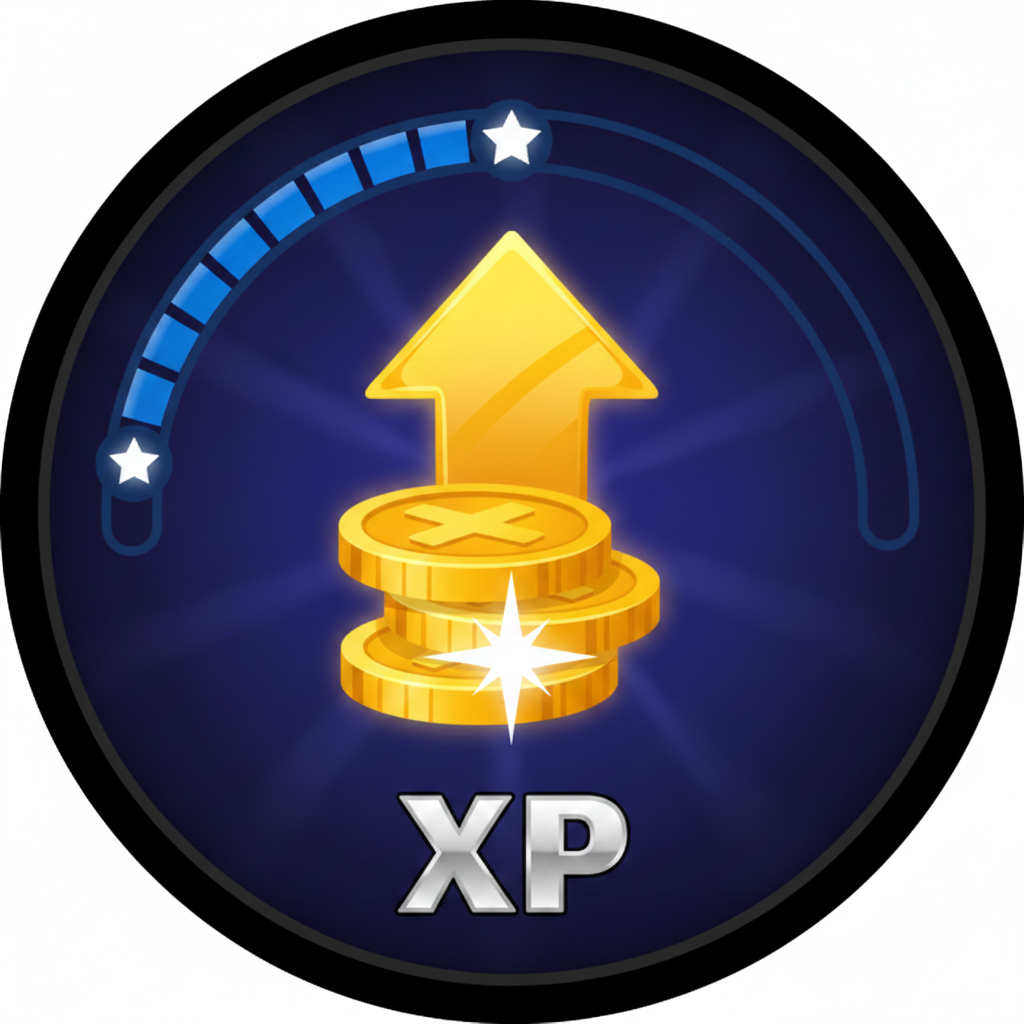
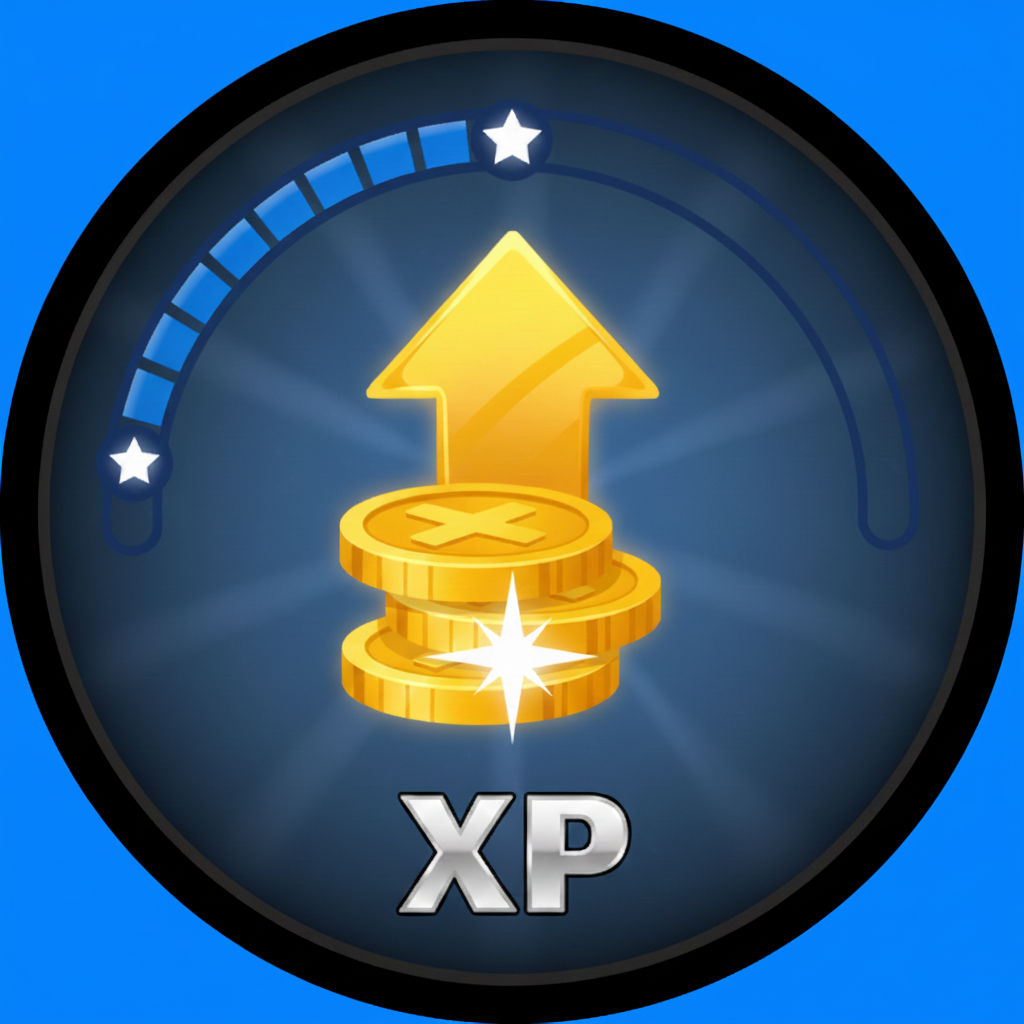
Update images for award xp and fix folder in export

diff --git a/scripts/journal-to-html-export.js b/scripts/journal-to-html-export.js
@@ -35,12 +35,22 @@ function runJournalExport(folderId) {
             return;
         }
 
-        // Create a set of folder IDs including the selected one and all its descendants
-        const descendantFolderIds = new Set(selectedFolder.tree.map(f => f.id));
-        descendantFolderIds.add(folderId);
+        // Define a helper to find all subfolder IDs recursively
+        const getAllSubfolderIds = (rootId) => {
+            // Find all folders that have 'rootId' as their parent
+            const children = game.folders.filter(f => f.folder?.id === rootId);
+            let ids = [rootId];
+            children.forEach(child => {
+                ids = ids.concat(getAllSubfolderIds(child.id));
+            });
+            return ids;
+        };
 
-        // Filter journals: keep if the journal's folder ID is in the set of descendant IDs
-        journalsToExport = allJournals.filter(j => j.folder && descendantFolderIds.has(j.folder.id));
+        // Get the list of all relevant folder IDs (parent + children)
+        const targetFolderIds = new Set(getAllSubfolderIds(folderId));
+
+        // Filter journals based on that list
+        journalsToExport = allJournals.filter(j => j.folder && targetFolderIds.has(j.folder.id));
 
         exportTitle = selectedFolder.name;
     }
@@ -83,10 +93,10 @@ function runJournalExport(folderId) {
         // Create a slug for the unique ID
         const entryId = journal.id; // Use the Foundry ID, which is already unique and safe
 
-        // 1a. Build the Table of Contents link
+        // Build the Table of Contents link
         tocContent += `<li><a href="#${entryId}">${entryName}</a></li>`;
 
-        // 1b. Build the Journal Body content
+        // Build the Journal Body content
         journalBodyContent += `<div class="journal-entry">`;
         journalBodyContent += `<h2 id="${entryId}">${entryName}</h2>`; // Assign the ID here
 
@@ -104,13 +114,13 @@ function runJournalExport(folderId) {
                     let cleanedContent = pageContent.replace(/<img[^>]*>/gi, ''); // 1. Remove <img> tags
                     cleanedContent = cleanedContent.replace(/@Compendium.*?}/g, ''); // 2. Remove Compendium links
                     
-                    // 3. Keep link text from UUID tags, wrapped in a span
+                    // Keep link text from UUID tags, wrapped in a span
                     cleanedContent = cleanedContent.replace(
                         /@UUID\[.*?\{([^}]+)\}\]/g, 
                         '<span class="uuid-text">$1</span>'
                     );
                     
-                    // 4. Contingency: Remove any remaining UUID tags without link text
+                    // Contingency: Remove any remaining UUID tags without link text
                     cleanedContent = cleanedContent.replace(
                         /@UUID\[.*?\]/g, 
                         ''
@@ -128,7 +138,7 @@ function runJournalExport(folderId) {
         journalBodyContent += `</div>`;
     }
 
-    // STEP 2: Assemble the final HTML
+    // Assemble the final HTML
     htmlContent += `<div class="toc-section">
         <h2>Table of Contents</h2>
         <ul class="toc-list">
@@ -139,19 +149,19 @@ function runJournalExport(folderId) {
     htmlContent += journalBodyContent;
     htmlContent += `</body></html>`;
 
-    // --- SAVE FILE ---
+    // SAVE FILE 
     let fileName = `${exportTitle.toLowerCase().replace(/\s+/g, '_')}.html`;
     saveDataToFile(htmlContent, "text/html", fileName);
     ui.notifications.info(`Successfully exported ${journalsToExport.length} journal entries from ${exportTitle}!`);
 }
 
 
-// --- DIALOG POPULATION AND LAUNCH ---
+// DIALOG POPULATION AND LAUNCH
 export function openJournalExportDialog() {
-    // 1. Get all folders from the 'JournalEntry' document type
+    // Get all folders from the 'JournalEntry' document type
     const journalFolders = game.folders.filter(f => f.type === "JournalEntry");
 
-    // 2. Build the <select> HTML dropdown options
+    // Build the <select> HTML dropdown options
     let folderOptions = '<option value="all">-- All Journals --</option>';
     journalFolders.forEach(folder => {
         // Add spaces for folder hierarchy if possible, otherwise just the name
@@ -159,7 +169,7 @@ export function openJournalExportDialog() {
         folderOptions += `<option value="${folder.id}">${indent}${folder.name}</option>`;
     });
 
-    // 3. Define the dialog content
+    // Define the dialog content
     const dialogContent = `
         <p>Select the folder you wish to export, or select "All Journals" to export everything.</p>
         <div class="form-group">
@@ -170,7 +180,7 @@ export function openJournalExportDialog() {
         </div>
     `;
 
-    // 4. Create and show the Foundry Dialog
+    // Create and show the Foundry Dialog
     new Dialog({
         title: "Journal Export Selection",
         content: dialogContent,
